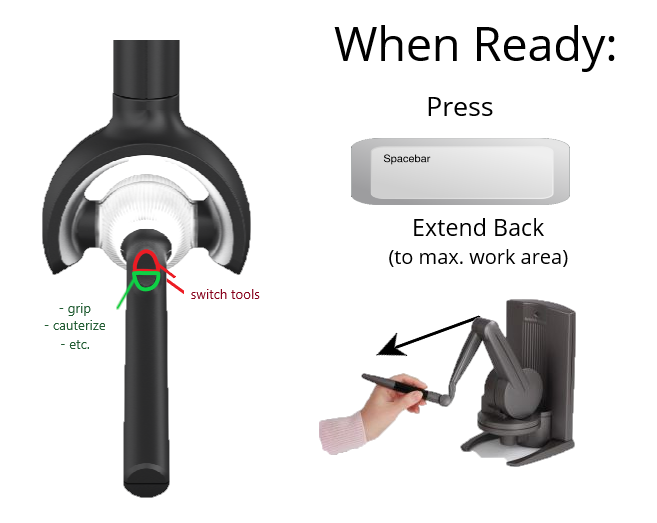
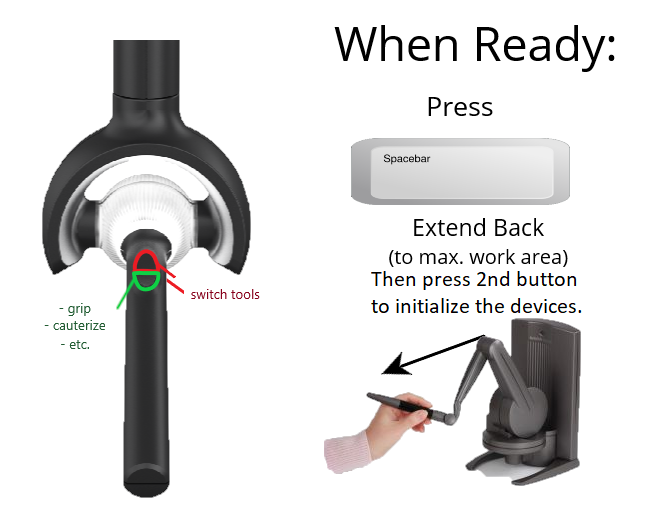
Fix clips counter for each vein/artery. Improved the instruction page

Changed region(s): [[0.4871, 0.5201, 0.8828, 0.9484]]

diff --git a/applications/plugins/SurfLabHaptic/HapticManager.cpp b/applications/plugins/SurfLabHaptic/HapticManager.cpp
@@ -29,7 +29,7 @@
 using sofa::gui::GUIManager;
 using sofa::gui::BaseGUI;
 using sofa::gui::qt::RealGUI;
-
+bool usingAA = false;
 #define int2string(a) std::to_string(a)
 using namespace std;
 
@@ -129,15 +129,17 @@ namespace sofa
 					if (idData)
 					{
 						toolState.id = atoi(idData->getValueString().c_str());
-						sofa::component::controller::AAOmniDriver* aaOmniDriverDummy;
 						sofa::component::controller::NewOmniDriver* newOmniDriverDummy;
+						if (usingAA) {
+							//sofa::component::controller::AAOmniDriver* aaOmniDriverDummy;
 
-						if (omniDriver.get()->getClassName().compare(aaOmniDriverDummy->getName()) == 0)
-						{
-							//cast to aa omni
-							aaOmniDriver = dynamic_cast<sofa::component::controller::AAOmniDriver *>(omniDriver.get());
-							newOmniDriver = NULL;
-							std::cout << "haptic manager using AAOmni " << this << std::endl;
+							//if (omniDriver.get()->getClassName().compare(aaOmniDriverDummy->getName()) == 0)
+							//{
+							//	//cast to aa omni
+							//	aaOmniDriver = dynamic_cast<sofa::component::controller::AAOmniDriver *>(omniDriver.get());
+							//	newOmniDriver = NULL;
+							//	std::cout << "haptic manager using AAOmni " << this << std::endl;
+							//}
 						}
 						else
 						{
@@ -145,7 +147,7 @@ namespace sofa
 							{
 								//cast to New omni
 								newOmniDriver = dynamic_cast<sofa::component::controller::NewOmniDriver *>(omniDriver.get());
-								aaOmniDriver = NULL;
+								//aaOmniDriver = NULL;
 								std::cout << "haptic manager using NewOmni " << this << std::endl;
 
 							}
@@ -223,7 +225,6 @@ namespace sofa
 
 			void HapticManager::doContain()
 			{
-				//std::cout << "haptic manager: doing contain!" << std::endl;
 				const ContactVector* contacts = getContacts();
 				if (contacts == NULL) return;
 				for (unsigned int j = 0; j < 1; ++j)
@@ -316,6 +317,7 @@ namespace sofa
 			{
 				//std::cout << "haptic manager: doing grasp!" << std::endl;
 				const ContactVector* contacts = getContacts();
+
 				if (contacts == NULL) return;
 				for (unsigned int j = 0; j < 1; ++j)
 				{
@@ -516,6 +518,7 @@ namespace sofa
 				{
 					const ContactVector::value_type& c = (*contacts)[j];
 					core::CollisionModel* surf = (c.elem.first.getCollisionModel() == toolState.modelTool ? c.elem.second.getCollisionModel() : c.elem.first.getCollisionModel());
+					//cout << "surf->name: " << surf->getName() << endl;
 					if ((surf->hasTag(core::objectmodel::Tag("HapticSurfaceVein")) || surf->hasTag(core::objectmodel::Tag("HapticSurfaceVolume")) || surf->hasTag(core::objectmodel::Tag("HapticSurfaceCurve"))))
 					{
 						if (!contact_index_fixed)
@@ -537,8 +540,8 @@ namespace sofa
 						{
 							int hasCutThisVein = hasBeenCut(surf->getName());
 							double resultantForce = 0;
-							if (aaOmniDriver){
-								resultantForce = sqrt(std::pow(aaOmniDriver->data.currentForce[0], 2) + std::pow(aaOmniDriver->data.currentForce[1], 2) + std::pow(aaOmniDriver->data.currentForce[2], 2));
+							if (usingAA /*&& aaOmniDriver*/){
+								//resultantForce = sqrt(std::pow(aaOmniDriver->data.currentForce[0], 2) + std::pow(aaOmniDriver->data.currentForce[1], 2) + std::pow(aaOmniDriver->data.currentForce[2], 2));
 							}
 							else
 							{
@@ -637,7 +640,6 @@ namespace sofa
 						}
 
 					}
-
 					/*sofa::core::topology::TopologicalMapping * topoMapping = surf->getContext()->get<sofa::core::topology::TopologicalMapping>();
 					if (topoMapping == NULL) return;
 					int triangleIdx = (c.elem.first.getCollisionModel() == toolState.modelTool ? c.elem.second.getIndex() : c.elem.first.getIndex());
@@ -646,8 +648,10 @@ namespace sofa
 					if (surf->hasTag(core::objectmodel::Tag("HapticSurfaceVein")) && tm->hasTag(core::objectmodel::Tag("DissectingTool")) && this->getContext()->getTime() - last_update_time >= 0.3)
 					{
 						int hasCutThisVein = hasBeenCut(surf->getName());
-						if ( clipVector.size() < 3*(1+veinCutSet.size()) && clipVector.size() < 3 + last_clips_count && !hasCutThisVein)
+						//check below if enough clips has been placed
+						if (vein_clips_map[surf->getName()].size() < 3 && !hasCutThisVein)
 						{
+							cout << "vein_clips_map[surf->getName()].size():" << vein_clips_map[surf->getName()].size() << endl;
 							if (!hasInstrumentTurnedRed )
 							{
 								string search_string = "vec3 boundaryColor = vec3( 0., 0., 0. );";
@@ -668,7 +672,7 @@ namespace sofa
 						}
 						else
 						{
-							if (!hasCutThisVein && clipVector.size() > 2)
+							if (!hasCutThisVein && vein_clips_map[surf->getName()].size()  >= 3)
 							{
 								if (!hasInstrumentTurnedGreen && !hasInstrumentTurnedRed)
 								{
@@ -714,8 +718,7 @@ namespace sofa
 						//hasCutVein = true;
 						//std::cout << "surf been cut:" << surf->getName() << std::endl;
 						namesOfVeinCutSet.insert(surf->getName());
-						last_clips_count = clipVector.size();
-						cout << "clips count for last cut:" << last_clips_count << std::endl;
+						//cout << "clips count for last cut:" << last_clips_count << std::endl;
 
 					}
 					sofa::core::topology::TopologicalMapping * topoMapping = surf->getContext()->get<sofa::core::topology::TopologicalMapping>();
@@ -744,8 +747,7 @@ namespace sofa
 					else
 						nbelems += manager.removeItemsFromCollisionModel(c.elem.first.getCollisionModel(), elemsToRemove);
 				
-				}
-				//std::cout << "after final cut " << std::endl;				
+				}			
 			}
 
 			void HapticManager::doIncise()
@@ -1001,25 +1003,30 @@ namespace sofa
 				const ContactVector* contacts = getContacts();
 				if (contacts == NULL) return;
 				int active_contact_index = 0; // index of the contacts that has the collision model we want to clamp.
+				//cout << "contacts->size() : " << contacts->size() << endl;
 				if (contacts->size() > 0)
 				{
-					for (unsigned int j = 0; j < contacts->size(); j++)
+					for (unsigned int j = 0; j < contacts->size(); j++)//look for the vein
 					{
 						const ContactVector::value_type& cc = (*contacts)[j];
+						
 						core::CollisionModel* surf = (cc.elem.first.getCollisionModel() == toolState.modelTool ? cc.elem.second.getCollisionModel() : cc.elem.first.getCollisionModel());
-						if ((surf->hasTag(core::objectmodel::Tag("HapticSurfaceVein"))))
-						{
-							//std::cout << "found the vein!" << std::endl;
-							active_contact_index = j;
-							break;
-						}
+						
+						int r = 0;
+						if (surf->hasTag(core::objectmodel::Tag("HapticSurfaceVein")))
+							r = 1;
+					//	cout << "contact : " << j << ", value = " << cc.value << ", is vein? " << r << endl;
+					//	if ((surf->hasTag(core::objectmodel::Tag("HapticSurfaceVein"))))
+					//	{
+					//		//std::cout << "found the vein!" << std::endl;
+					//		active_contact_index = j;
+					//		break;
+					//	}
 					}
 				}
 				//std::cout << "in doClamp,contacts size,  active index = " << contacts->size() << active_contact_index << std::endl;
 				const ContactVector::value_type& c = (*contacts)[active_contact_index];
 				unsigned int idx1 = (c.elem.first.getCollisionModel() == toolModelPt ? c.elem.second.getIndex() : c.elem.first.getIndex());
-				//std::cout << "inside do clamp()" << std::endl;
-				//std::cout << "index of the triangle of the organ:" << idx1 << std::endl;
 
 				if (idx1 >= 0)
 				{
@@ -1053,16 +1060,17 @@ namespace sofa
 					std::set_intersection(ie1.begin(), ie1.end(), e3.begin(), e3.end(), std::back_inserter(ie));
 
 					const component::topology::Hexahedron hex = hexContainer->getHexahedron(ie[0]);
-					//std::cout << "index of the hex:" << ie[0] << std::endl;
-					int idxclip = ie[0];
+					int idxclip = ie[0];//index of the hex
 					std::vector<int>::iterator it;
-					it = find(clipVector.begin(), clipVector.end(), idxclip);
-					if (it != clipVector.end())
+					it = find(vein_clips_map[surf->getName()].begin(), vein_clips_map[surf->getName()].end(), idxclip);
+					if (it != vein_clips_map[surf->getName()].end())
 						std::cout << "Applying a clip on an existing one!" << *it << '\n';
-					else
-						clipVector.push_back(idxclip);
+					else {
+						//clipVector.push_back(idxclip);
+						vein_clips_map[surf->getName()].push_back(idxclip);
+					}
 					std::cout << "current clip vector: ";
-					for (auto i = clipVector.begin(); i != clipVector.end(); ++i)
+					for (auto i = vein_clips_map[surf->getName()].begin(); i != vein_clips_map[surf->getName()].end(); ++i)
 						std::cout << *i << ' ';
 					std::cout << endl;
 
@@ -1228,8 +1236,8 @@ namespace sofa
 							//TODO: Take the force direction(sign) into account while calculating resultant
 							//double resultantForce = sqrt(std::pow(newOmniDriver->data.currentForce[0], 2) + std::pow(newOmniDriver->data.currentForce[1], 2) + std::pow(newOmniDriver->data.currentForce[2], 2));
 							double resultantForce = 0;
-							if (aaOmniDriver){
-								resultantForce = sqrt(std::pow(aaOmniDriver->data.currentForce[0], 2) + std::pow(aaOmniDriver->data.currentForce[1], 2) + std::pow(aaOmniDriver->data.currentForce[2], 2));
+							if (usingAA){
+								//resultantForce = sqrt(std::pow(aaOmniDriver->data.currentForce[0], 2) + std::pow(aaOmniDriver->data.currentForce[1], 2) + std::pow(aaOmniDriver->data.currentForce[2], 2));
 							}
 							else
 							{

diff --git a/applications/plugins/SurfLabHaptic/HapticManager.h b/applications/plugins/SurfLabHaptic/HapticManager.h
@@ -70,7 +70,7 @@
 //Changes for force feedback safety
 #include <SofaHaptics/ForceFeedback.h>
 #include "NewOmniDriver.h"
-#include "AAOmniDriver.h"
+//#include "AAOmniDriver.h"
 #include <math.h>
 
 #include <iostream>
@@ -158,7 +158,7 @@ namespace sofa
 				//sofa::component::topology::TriangleSetTopologyContainer* mesh;
 				//Changes for force feedback safety
 				sofa::component::controller::NewOmniDriver *newOmniDriver;
-				sofa::component::controller::AAOmniDriver *aaOmniDriver;
+				//sofa::component::controller::AAOmniDriver *aaOmniDriver;
 
 				HapticManager();
 
@@ -197,7 +197,7 @@ namespace sofa
 				static std::vector<core::behavior::MechanicalState<DataTypes>*> clipperStates;
 				static std::vector<double> hexDimensions;
 				static std::vector<bool> edge12along; // if edge 12 is along vessel
-				static std::vector<int> clipVector;
+				static std::map <string, vector<int>> vein_clips_map;//maps the name of vein to a vector of indices of clips
 				static std::set<int> veinCutSet;
 				static std::set<std::string> namesOfVeinCutSet;
 				static bool hasPutInBag;
@@ -210,9 +210,8 @@ namespace sofa
 				static std::string base_path_share ;
 				bool hasInstrumentTurnedRed = false;
 				bool hasInstrumentTurnedGreen = false;
-				//bool hasCarvedtheVein = false;
 				static double last_update_time;//last time the shader has been updated
-				static int last_clips_count;//last time the shader has been updated
+				static int last_clips_count;//not used
 				int hasBeenCut(std::string name);//check if a collision model has been cut or not, return 1 for yes, 0 for no.
 				
 			};
@@ -234,7 +233,8 @@ std::vector<std::pair<Hexahedron, int> > HapticManager::clampPairs;
 std::vector<MechanicalState<HapticManager::DataTypes>*> HapticManager::clipperStates;
 std::vector<double> HapticManager::hexDimensions;
 std::vector<bool> HapticManager::edge12along;
-std::vector<int> HapticManager::clipVector;
+//std::vector<int> HapticManager::clipVector;
+std::map< string, vector<int> > HapticManager::vein_clips_map;
 std::set<int> HapticManager::veinCutSet;
 std::set<std::string> HapticManager::namesOfVeinCutSet;
 double HapticManager::last_update_time;
